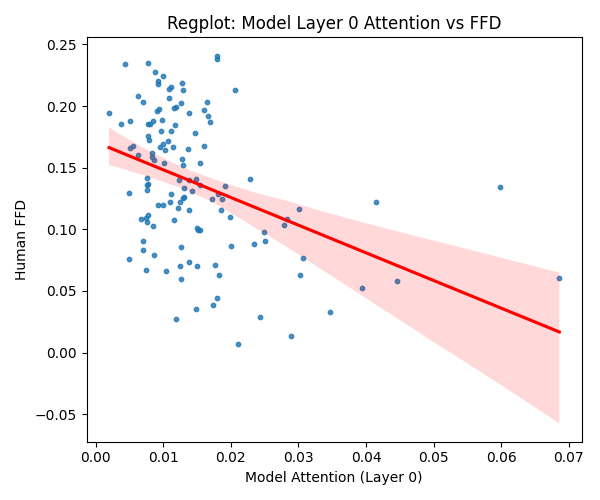
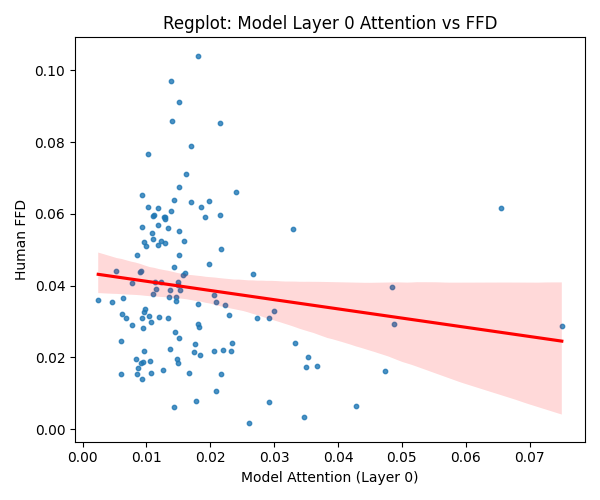
plots

diff --git a/scripts/analysis/correlation.py b/scripts/analysis/correlation.py
@@ -7,10 +7,10 @@ from scripts.visuals.eda import plot_hist_kde_box
 from scripts.visuals.normality_test import shapiro_test
 from scripts.visuals.corr_plots import plot_regplots, plot_corr_heatmap
 
-FEATURES = ['nFixations', 'meanPupilSize', 'GD', 'TRT', 'FFD', 'SFD', 'GPT', 'WordLen']
+FEATURES = ['nFixations', 'meanPupilSize', 'GD', 'TRT', 'FFD', 'SFD', 'GPT']
 
 def load_processed_data():
-    human_df = pd.read_csv('data/task2/processed/averaged_participants.csv')
+    human_df = pd.read_csv('data/task2/processed/processed_participants.csv')
     human_df = human_df[human_df['Sent_ID'] < subset]  # Subset
     model_data = torch.load("/scratch/7982399/thesis/outputs/attention_processed.pt")
     attention = model_data['attention_processed']
@@ -77,7 +77,14 @@ def main():
     attention_nonpadded = attention_flat[:, token_indices]
     results_df = correlation_analysis(attention_nonpadded, human_df)
     
-    print(results_df)
+    # Filter significant results
+    significance_threshold = 0.05
+    significant_results = results_df[
+        (results_df['pearson_p_value'] < significance_threshold) |
+        (results_df['spearman_p_value'] < significance_threshold)
+    ]
+    
+    print(significant_results)
 
 if __name__ == "__main__":
     main()
